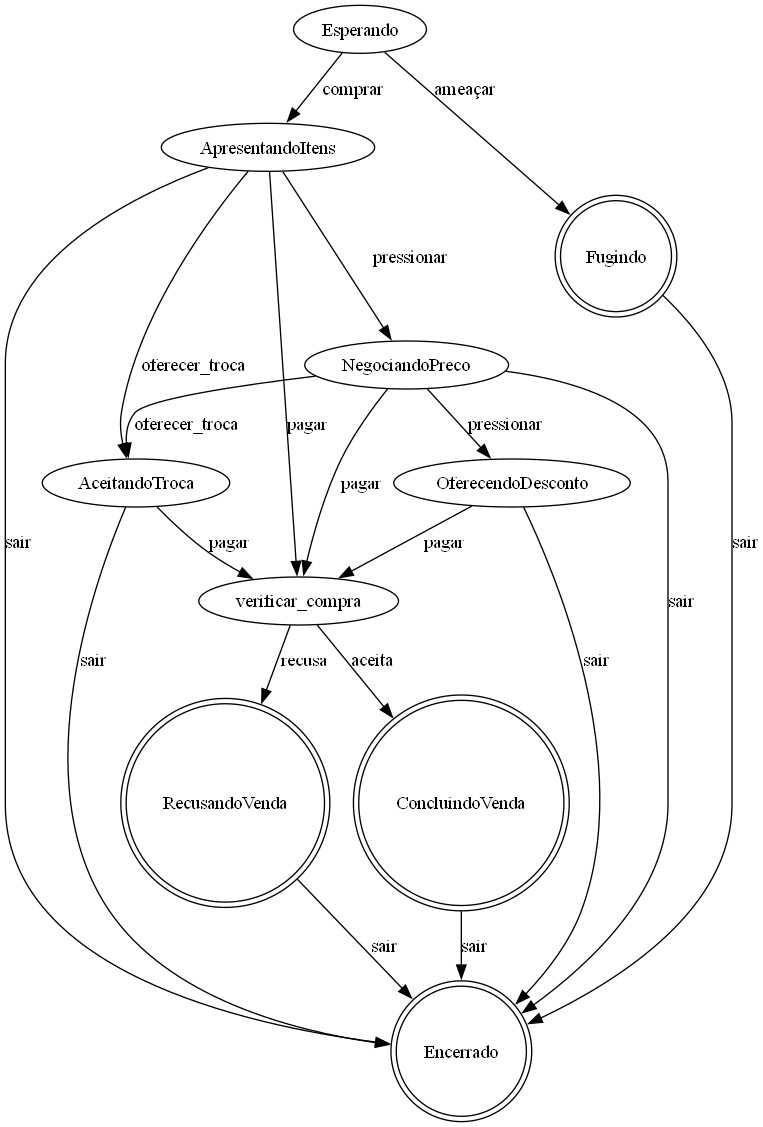
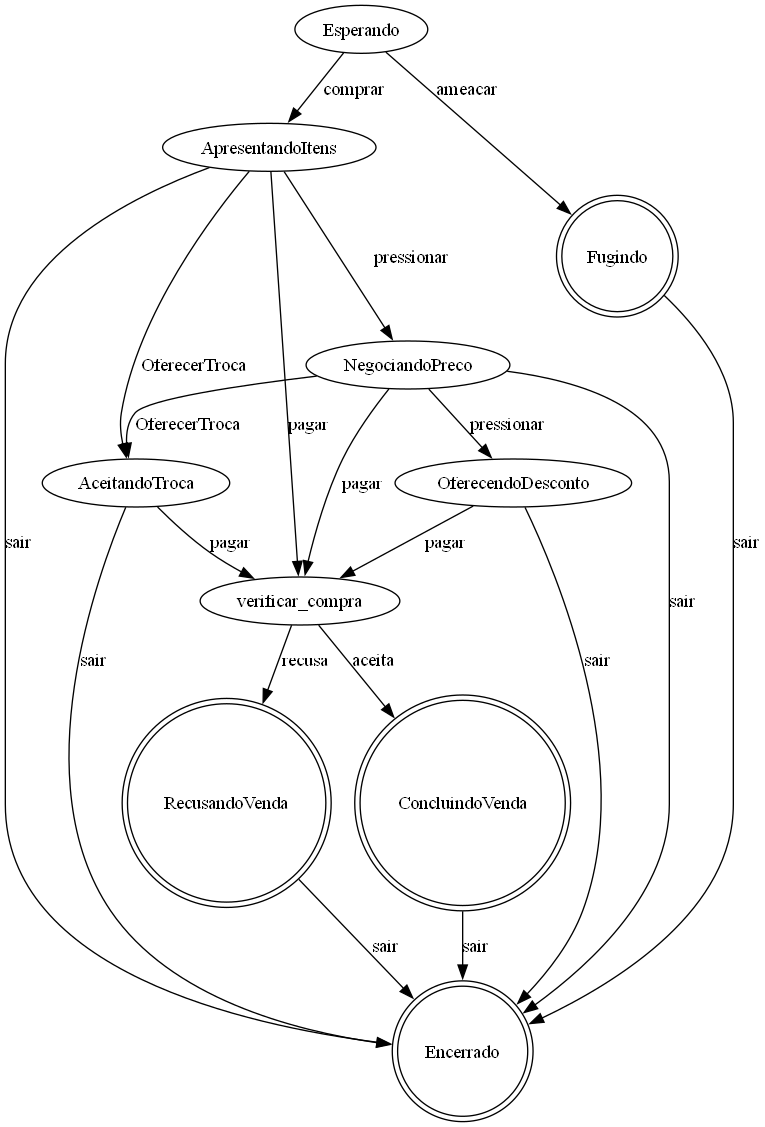
Add files via upload

diff --git a/NPC/Emanuel-NPC/game.py b/NPC/Emanuel-NPC/game.py
@@ -249,21 +249,35 @@ class NPC:
 
         if self.type == "info":
             opcao_texto = state_info["options"].get(choice_key, "")
+
             if opcao_texto.startswith("perguntar sobre"):
                 tema = opcao_texto.replace("perguntar sobre ", "")
                 NpcInformante.empilhar(tema)
-                # Aqui buscamos a resposta específica e colocamos no diálogo:
                 explicacao = NpcInformante.respostas_perguntas.get(tema, "Informação desconhecida.")
                 self.dialogue_message = f"{tema.capitalize()}: {explicacao}"
+
             elif opcao_texto == "sair":
-                self.dialogue_message = "Você perguntou sobre: " + ", ".join(NpcInformante.pilha)
+                perguntas = NpcInformante.pilha.copy()
+                if perguntas:
+                    self.dialogue_message = "Você perguntou sobre: " + ", ".join(perguntas)
+                else:
+                    self.dialogue_message = "Você não perguntou nada."
 
         else:
+            # Caso padrão (Mercador ou Ferreiro)
+            if isinstance(proximo_estado, list):
+                self.dialogue_state = random.choice(proximo_estado)
+            else:
+                self.dialogue_state = proximo_estado
+
             self.dialogue_message = self.automaton[self.dialogue_state]["message"]
 
+        # Atualizar opções
         self.dialogue_options_display = [
             f"[{k}] {v}" for k, v in self.automaton[self.dialogue_state]["options"].items()
         ]
+
+
 
     def end_dialogue(self):
         self.is_dialogue_active = False

diff --git a/NPC/Emanuel-NPC/Visualizador.py b/NPC/Emanuel-NPC/Visualizador.py
@@ -20,14 +20,14 @@ for estado in estados:
 # Definindo as transições (arestas)
 transicoes = [
     ('Esperando', 'ApresentandoItens', 'comprar'),
-    ('Esperando', 'Fugindo', 'ameaçar'),
+    ('Esperando', 'Fugindo', 'ameacar'),
     ('ApresentandoItens', 'NegociandoPreco', 'pressionar'),
-    ('ApresentandoItens', 'AceitandoTroca', 'oferecer_troca'),
+    ('ApresentandoItens', 'AceitandoTroca', 'OferecerTroca'),
     ('ApresentandoItens', 'verificar_compra', 'pagar'),
     ('ApresentandoItens', 'Encerrado', 'sair'),
     ('NegociandoPreco', 'OferecendoDesconto', 'pressionar'),
     ('NegociandoPreco', 'verificar_compra', 'pagar'),
-    ('NegociandoPreco', 'AceitandoTroca', 'oferecer_troca'),
+    ('NegociandoPreco', 'AceitandoTroca', 'OferecerTroca'),
     ('NegociandoPreco', 'Encerrado', 'sair'),
     ('OferecendoDesconto', 'verificar_compra', 'pagar'),
     ('OferecendoDesconto', 'Encerrado', 'sair'),
